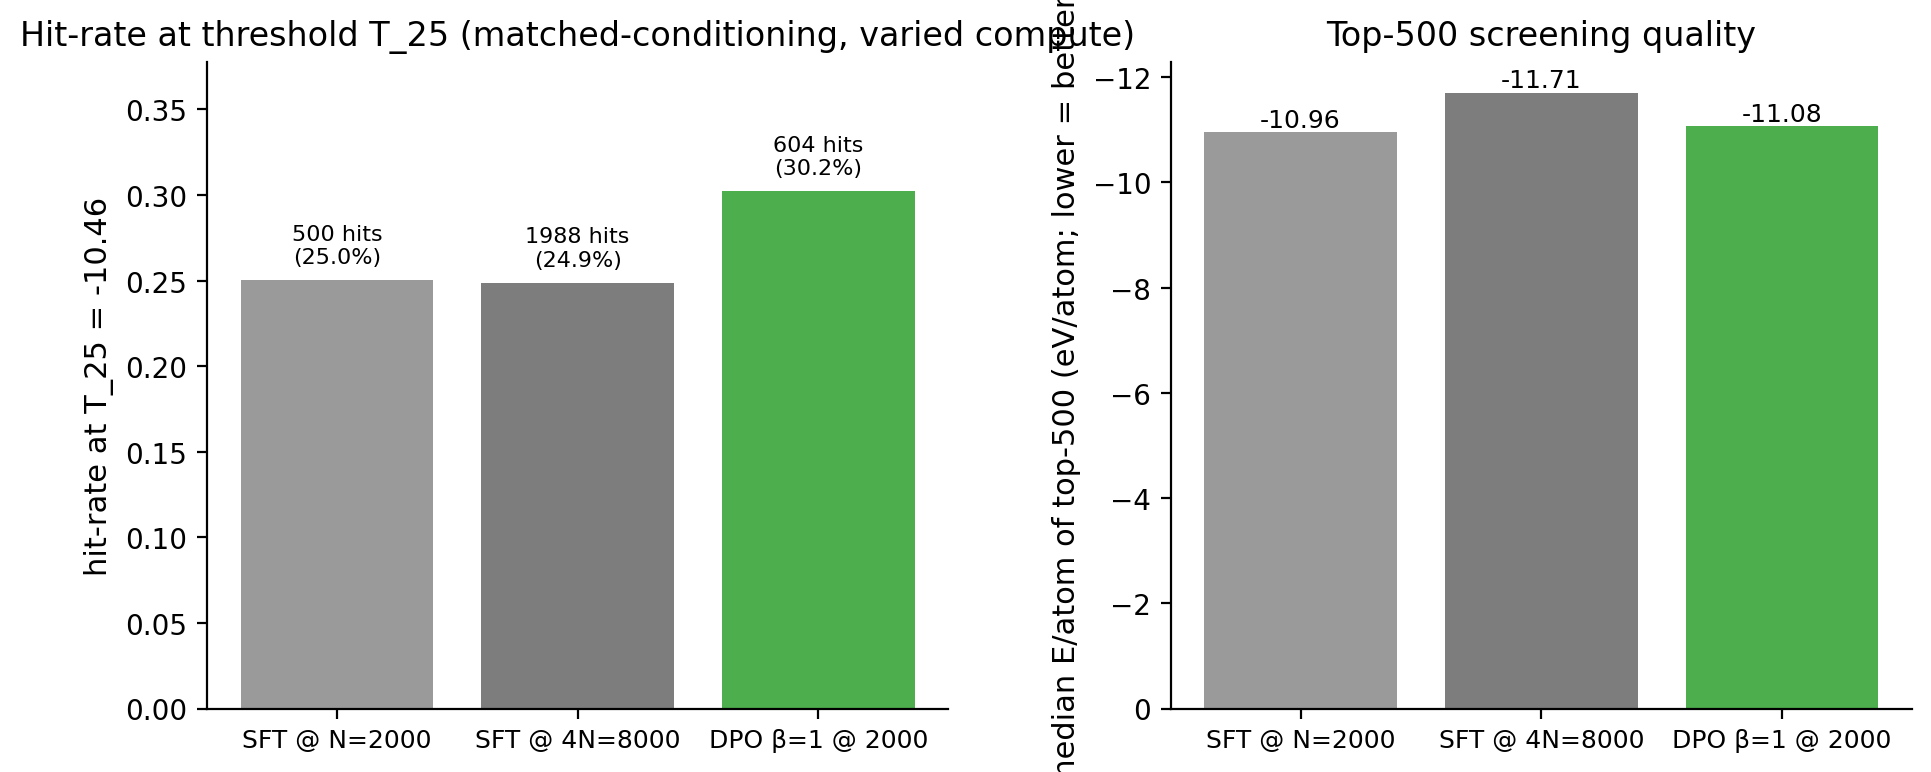
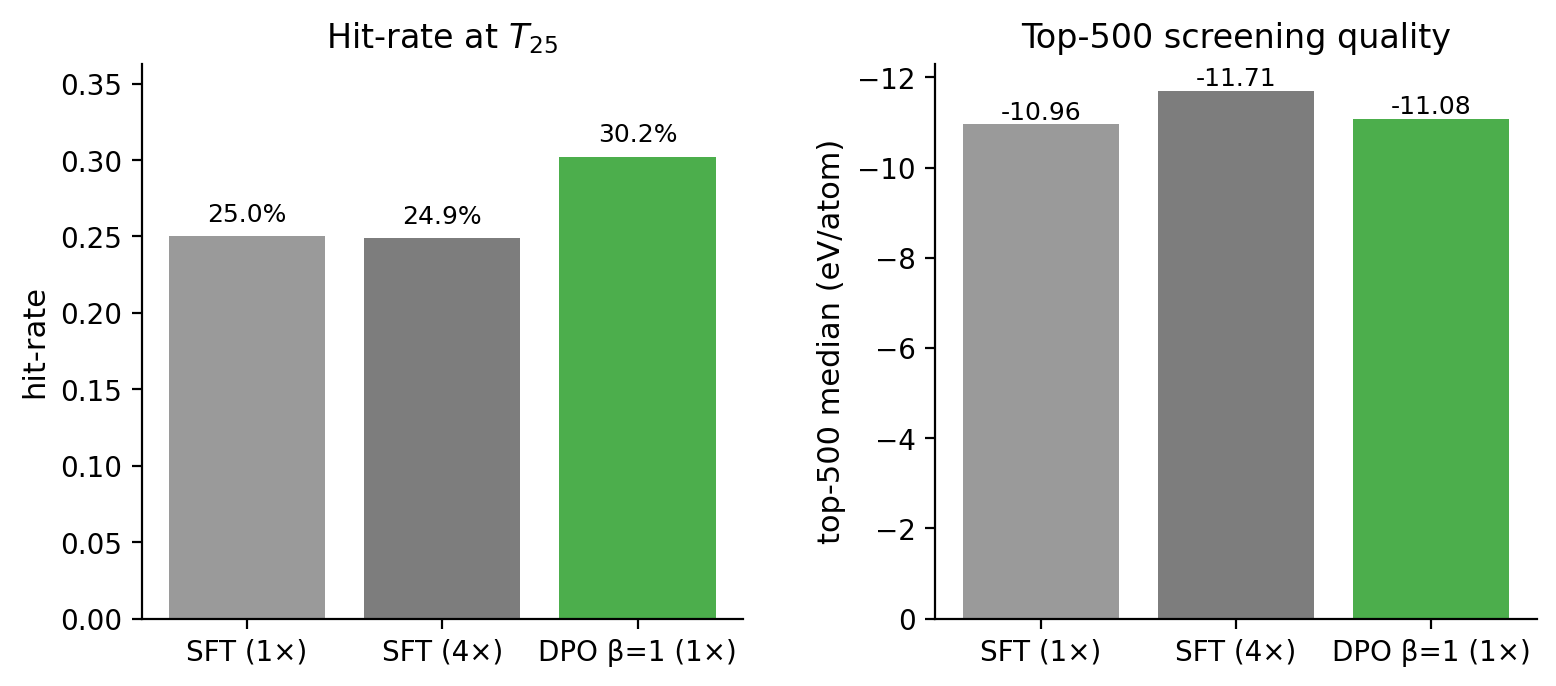
updates

Changed region(s): [[0.0, 0.0, 0.9871, 1.0], [0.0, 0.1531, 0.4936, 0.9796], [0.0308, 0.0918, 0.1234, 0.1837]]

diff --git a/scripts/dpo/make_figures.py b/scripts/dpo/make_figures.py
@@ -268,39 +268,37 @@ def fig_training_sigma():
 # FIG 6: compute-matched comparison — DPO@N vs SFT best-of-N
 # ============================================================
 def fig_compute_matched():
-    fig, axes = plt.subplots(1, 2, figsize=(11, 4.2), gridspec_kw={"wspace": 0.30})
+    fig, axes = plt.subplots(1, 2, figsize=(9, 3.6), gridspec_kw={"wspace": 0.32})
 
     pool_data = [
-        ("SFT @ N=2000",   baseline,           COLOR["baseline"]),
-        ("SFT @ 4N=8000",  sft8k,              "#666666"),
-        ("DPO β=1 @ 2000", pools["1"],         COLOR["1"]),
+        ("SFT (1×)",     baseline,    COLOR["baseline"]),
+        ("SFT (4×)",     sft8k,       "#666666"),
+        ("DPO β=1 (1×)", pools["1"],  COLOR["1"]),
     ]
 
-    # Left: hit-rate at T_25 with absolute hit count overlay
     names   = [p[0] for p in pool_data]
     colors  = [p[2] for p in pool_data]
     hits    = [(p[1] < T_25).sum() for p in pool_data]
     rates   = [(p[1] < T_25).mean() for p in pool_data]
 
     x = np.arange(len(names))
-    bars = axes[0].bar(x, rates, color=colors, alpha=0.85)
+    axes[0].bar(x, rates, color=colors, alpha=0.85)
     axes[0].set_xticks(x)
-    axes[0].set_xticklabels(names, fontsize=9)
-    axes[0].set_ylabel(f"hit-rate at T_25 = {T_25:.2f}")
-    axes[0].set_title("Hit-rate at threshold T_25 (matched-conditioning, varied compute)")
-    for xi, h, r in zip(x, hits, rates):
-        axes[0].text(xi, r + 0.01, f"{h} hits\n({r:.1%})", ha="center", fontsize=8)
-    axes[0].set_ylim(0, max(rates) * 1.25)
+    axes[0].set_xticklabels(names, fontsize=10)
+    axes[0].set_ylabel("hit-rate")
+    axes[0].set_title("Hit-rate at $T_{25}$")
+    for xi, r in zip(x, rates):
+        axes[0].text(xi, r + 0.01, f"{r:.1%}", ha="center", fontsize=9)
+    axes[0].set_ylim(0, max(rates) * 1.20)
 
-    # Right: top-K=500 median energy
     K = 500
     top_meds = [np.median(np.sort(p[1])[:K]) for p in pool_data]
-    bars2 = axes[1].bar(x, top_meds, color=colors, alpha=0.85)
+    axes[1].bar(x, top_meds, color=colors, alpha=0.85)
     axes[1].set_xticks(x)
-    axes[1].set_xticklabels(names, fontsize=9)
-    axes[1].set_ylabel(f"median E/atom of top-{K} (eV/atom; lower = better)")
-    axes[1].set_title(f"Top-{K} screening quality")
-    axes[1].invert_yaxis()  # lower energy at top
+    axes[1].set_xticklabels(names, fontsize=10)
+    axes[1].set_ylabel("top-500 median (eV/atom)")
+    axes[1].set_title("Top-500 screening quality")
+    axes[1].invert_yaxis()
     for xi, m in zip(x, top_meds):
         axes[1].text(xi, m, f"{m:.2f}", ha="center", va="bottom", fontsize=9)
 